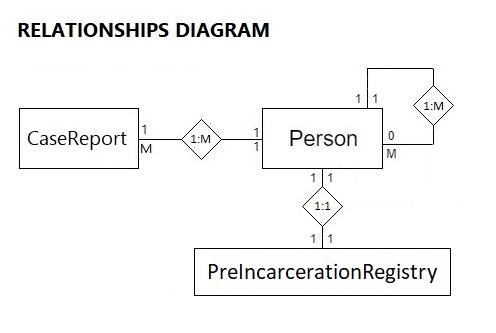
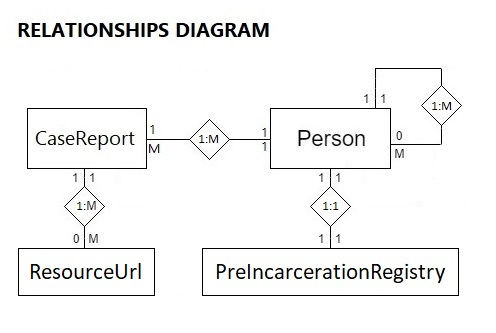
Actualizada documentación de JDL, mockups y stories

diff --git a/documentation/stories/Epic III_ Management + Stories.md b/documentation/stories/Epic III_ Management + Stories.md
@@ -1,7 +1,7 @@
 ### **EPIC 3**
 
 ### **AS A** | User who manages the movements of system records.
- 
+
 ### **I WANT** | To be able to register, cancel and modify data in general.
 
 ### **SO THAT** | Being able to increase and correct the data of the database contributing to its expected use.
@@ -12,7 +12,7 @@
 ### **STORY 1**
 
 ### **AS A** | User who manages the movements of system records.
- 
+
 ### **I WANT** | To be able to register a person.
 
 ### **SO THAT** | Having him/her in the system and record the relationship with the rest of the database.
@@ -21,7 +21,7 @@
 ### **STORY 2**
 
 ### **AS A** | User who manages the movements of system records.
- 
+
 ### **I WANT** | To edit a person from the DDBB.
 
 ### **SO THAT** | I'm able to modify the data if ther are changes or errors in previous records.
@@ -30,7 +30,7 @@
 ### **STORY 3**
 
 ### **AS A** | User who manages the movements of system records.
- 
+
 ### **I WANT** | To imprison a person.
 
 ### **SO THAT** | I'm able to readjust the consideration and relationships in the organization.
@@ -39,7 +39,7 @@
 ### **STORY 4**
 
 ### **AS A** | User who manages the movements of system records.
- 
+
 ### **I WANT** | To set free a person.
 
 ### **SO THAT** | I'm able to readjust the consideration and relationships in the organization.
@@ -48,7 +48,7 @@
 ### **STORY 5**
 
 ### **AS A** | User who manages the movements of system records.
- 
+
 ### **I WANT** | To promote a person.
 
 ### **SO THAT** | I'm able to readjust the consideration and relationships in the organization.
@@ -57,7 +57,7 @@
 ### **STORY 6**
 
 ### **AS A** | User who manages the movements of system records.
- 
+
 ### **I WANT** | To jail to degrade a person.
 
 ### **SO THAT** | I'm able to readjust the consideration and relationships in the organization.
@@ -66,7 +66,7 @@
 ### **STORY 7**
 
 ### **AS A** | User who manages the movements of system records.
- 
+
 ### **I WANT** | To create a background report.
 
 ### **SO THAT** | I'm able to record the criminal act committed by a person.
@@ -75,7 +75,7 @@
 ### **STORY 8**
 
 ### **AS A** | User who manages the movements of system records.
- 
+
 ### **I WANT** | To edit a background report.
 
 ### **SO THAT** | I can make corrections or add new data.
@@ -84,9 +84,52 @@
 ### **STORY 9**
 
 ### **AS A** | User who manages the movements of system records.
- 
-### **I WANT** | To delete a background report.
 
-### **SO THAT** | I'm able to delete the record of the same case considering that it has no relation to the case.
+### **I WANT** | Change a mistaken URL if redirects somewhere wrong.
 
+### **SO THAT** | Change the URL of a link.
+--------------------------------------------------------------------------------
 
+### **STORY 10**
+
+### **AS A** | User who manages the movements of system records.
+
+### **I WANT** | To document a case report with docs or photos.
+
+### **SO THAT** | Create a new link to complete it.
+--------------------------------------------------------------------------------
+
+### **STORY 11**
+
+### **AS A** | User who manages the movements of system records.
+
+### **I WANT** | To change details about an incarcerated person´s relationships.
+
+### **SO THAT** | Editing an incarceration´s registry.
+--------------------------------------------------------------------------------
+
+### **STORY 12**
+
+### **AS A** | User who manages the movements of system records.
+
+### **I WANT** | To add more proofs to a case report.
+
+### **SO THAT** | Adding a link to a case report.
+--------------------------------------------------------------------------------
+
+### **STORY 13**
+
+### **AS A** | User who manages the movements of system records.
+
+### **I WANT** | Expand the delictive records of a person.
+
+### **SO THAT** | Adding a case report to a person.
+--------------------------------------------------------------------------------
+
+### **STORY 14**
+
+### **AS A** | User who manages the movements of system records.
+
+### **I WANT** | To correct a wrongly assigned link from a case report.
+
+### **SO THAT** | Pulling out a link from case report.

diff --git a/documentation/stories/Epic II_ Visualization + Stories.md b/documentation/stories/Epic II_ Visualization + Stories.md
@@ -1,7 +1,7 @@
 ### **EPIC 2**
 
 ### **AS A** | User who uses the system.
- 
+
 ### **I WANT** | Be able to see all the information registered under different conditions.
 
 ### **SO THAT** | To be able to get and work with that delimited information to my liking.
@@ -12,7 +12,7 @@
 ### **STORY 1**
 
 ### **AS AN** | Analyst agent that uses the system.
- 
+
 ### **I WANT** | To see the list of those considered VIPs.
 
 ### **SO THAT** | Be able to track them.
@@ -22,7 +22,7 @@
 ### **STORY 2**
 
 ### **AS AN** | Analyst agent that uses the system.
- 
+
 ### **I WANT** | To be able to find people in the DDBB matching the information entered.
 
 ### **SO THAT** | Knowing if someone matches the description provided.
@@ -32,7 +32,7 @@
 ### **STORY 3**
 
 ### **AS AN** | Analyst agent that uses the system.
- 
+
 ### **I WANT** | To view all the people in the system.
 
 ### **SO THAT** | Knowing how big the DDBB is how people is related.
@@ -42,27 +42,77 @@
 ### **STORY 4**
 
 ### **AS AN** | Analyst agent that uses the system.
- 
-### **I WANT** | To visualize the background of a specific person.
 
-### **SO THAT** | Being able to read the information it contains.
+### **I WANT** | To visualize the delictive story of a specific person.
+
+### **SO THAT** | Being able to read the case report asociated to that person.
 
    --------------------------------------------------------------------------------
 
 ### **STORY 5**
 
 ### **AS AN** | Analyst agent that uses the system.
- 
+
 ### **I WANT** | To visualize all the background of a person.
 
 ### **SO THAT** | I am able to consider their danger or assess their participation in other events.
 
    --------------------------------------------------------------------------------
-   
+
 ### **STORY 6**
 
 ### **AS AN** | Analyst agent that uses the system.
- 
+
 ### **I WANT** | To view information regarding a person.
 
 ### **SO THAT** | Being able to observe and value his/her data.
+
+--------------------------------------------------------------------------------
+
+### **STORY 7**
+
+### **AS AN** | Analyst agent that uses the system.
+
+### **I WANT** | To know where a photo/proof is hosted.
+
+### **SO THAT** | I want to see the link that points to a source.
+
+--------------------------------------------------------------------------------
+
+### **STORY 9**
+
+### **AS AN** | Analyst agent that uses the system.
+
+### **I WANT** | To visualize the background of a specific person.
+
+### **SO THAT** | Being able to read the information it contains.
+
+--------------------------------------------------------------------------------
+
+### **STORY 10**
+
+### **AS AN** | Analyst agent that uses the system.
+
+### **I WANT** | To know who was someone related to before being incarcerated.
+
+### **SO THAT** | Be able to see all incarceration related registries.
+
+--------------------------------------------------------------------------------
+
+### **STORY 11**
+
+### **AS AN** | Analyst agent that uses the system.
+
+### **I WANT** | To keep track of every link to a hosted prove.
+
+### **SO THAT** | I want to retrieve every link in the DDBB.
+
+--------------------------------------------------------------------------------
+
+### **STORY 14**
+
+### **AS A** | Analyst agent that uses the system.
+
+### **I WANT** | To know the details of incarcerated one´s related people.
+
+### **SO THAT** | Showing the incarceration registry of someone.
